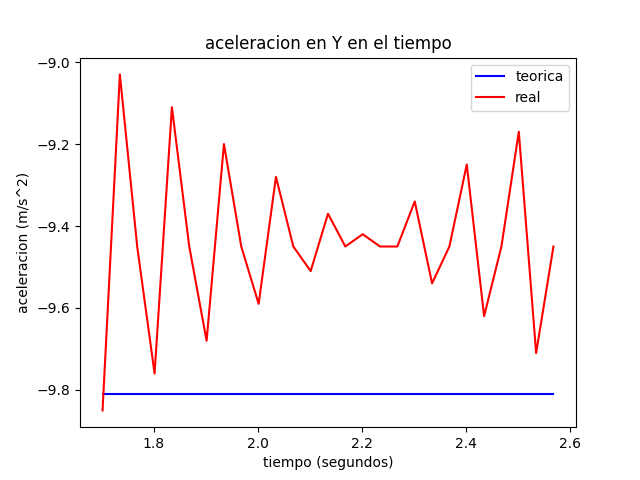
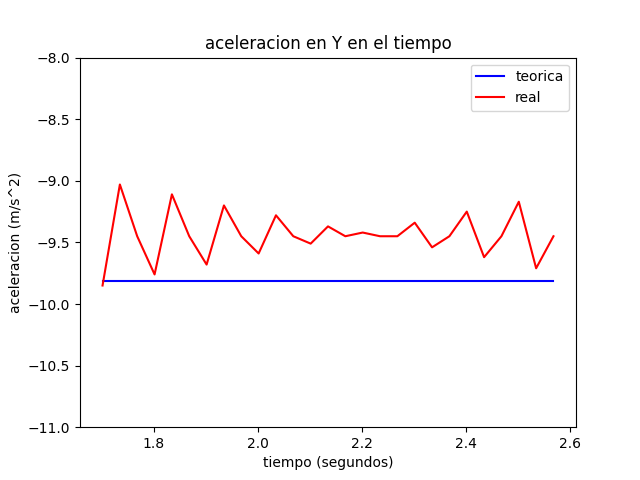
achicar ancho de grafico

diff --git a/src/basket-doble/pandas_procesing.py b/src/basket-doble/pandas_procesing.py
@@ -133,7 +133,7 @@ def graficar_posicion_tiempo(tabla, coordenada, guardar_grafica=None, mostrar_gr
     plt.ylabel('posicion (m)')
     # titulo
     plt.title('posicion en '+coordenada+' en el tiempo')
-    #plt.ylim(-1, 5)
+
 
     if guardar_grafica:
         plt.savefig(RUTA_CARPETA_IMAGENES + "posicion_tiempo_" + coordenada + ".png")
@@ -168,7 +168,7 @@ def graficar_aceleracion_tiempo(tabla, coordenada, guardar_grafica=None, mostrar
     plt.ylabel('aceleracion (m/s^2)')
     # titulo
     plt.title('aceleracion en '+coordenada+' en el tiempo')
-
+    plt.ylim(-11, -8)
     if guardar_grafica:
         plt.savefig(RUTA_CARPETA_IMAGENES + "aceleracion_tiempo_" + coordenada + ".png")
     if mostrar_grafica:
@@ -321,7 +321,8 @@ def generar_datos_y_teorica(tabla):
     tabla_nueva = tabla.copy()
     y_inicial = tabla_nueva["Y"].iloc[0]
     v_inicial = velocidad_inicial_y_teorica(tabla_nueva)
-    tiempo = tabla_nueva["Time"] - tabla_nueva["Time"].iloc[0]
+    tiempo = (tabla_nueva["Time"]
+              - tabla_nueva["Time"].iloc[0])
     tabla_nueva["pos_Y_teorica"] = calcular_posicion_y(y_inicial, v_inicial, tiempo)
     tabla_nueva["vel_Y_teorica"] = calcular_velocidad_y(v_inicial, tiempo)
     tabla_nueva["acc_Y_teorica"] = -9.81
